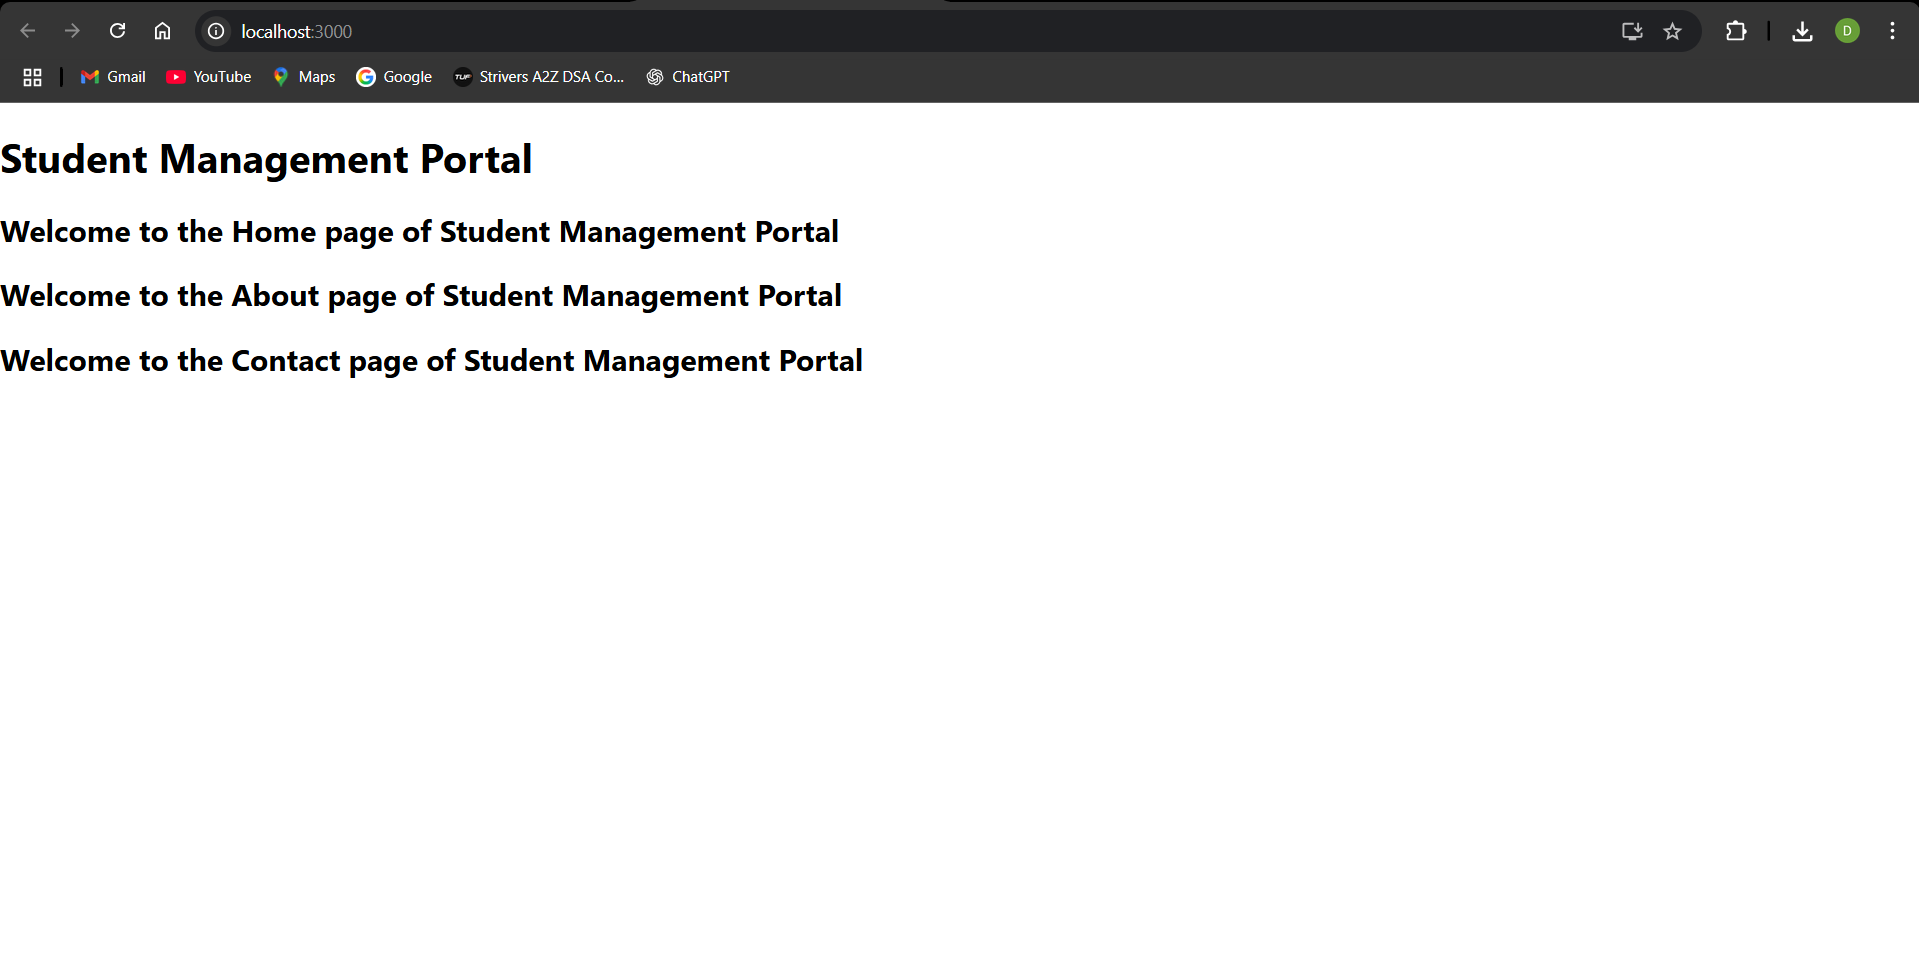
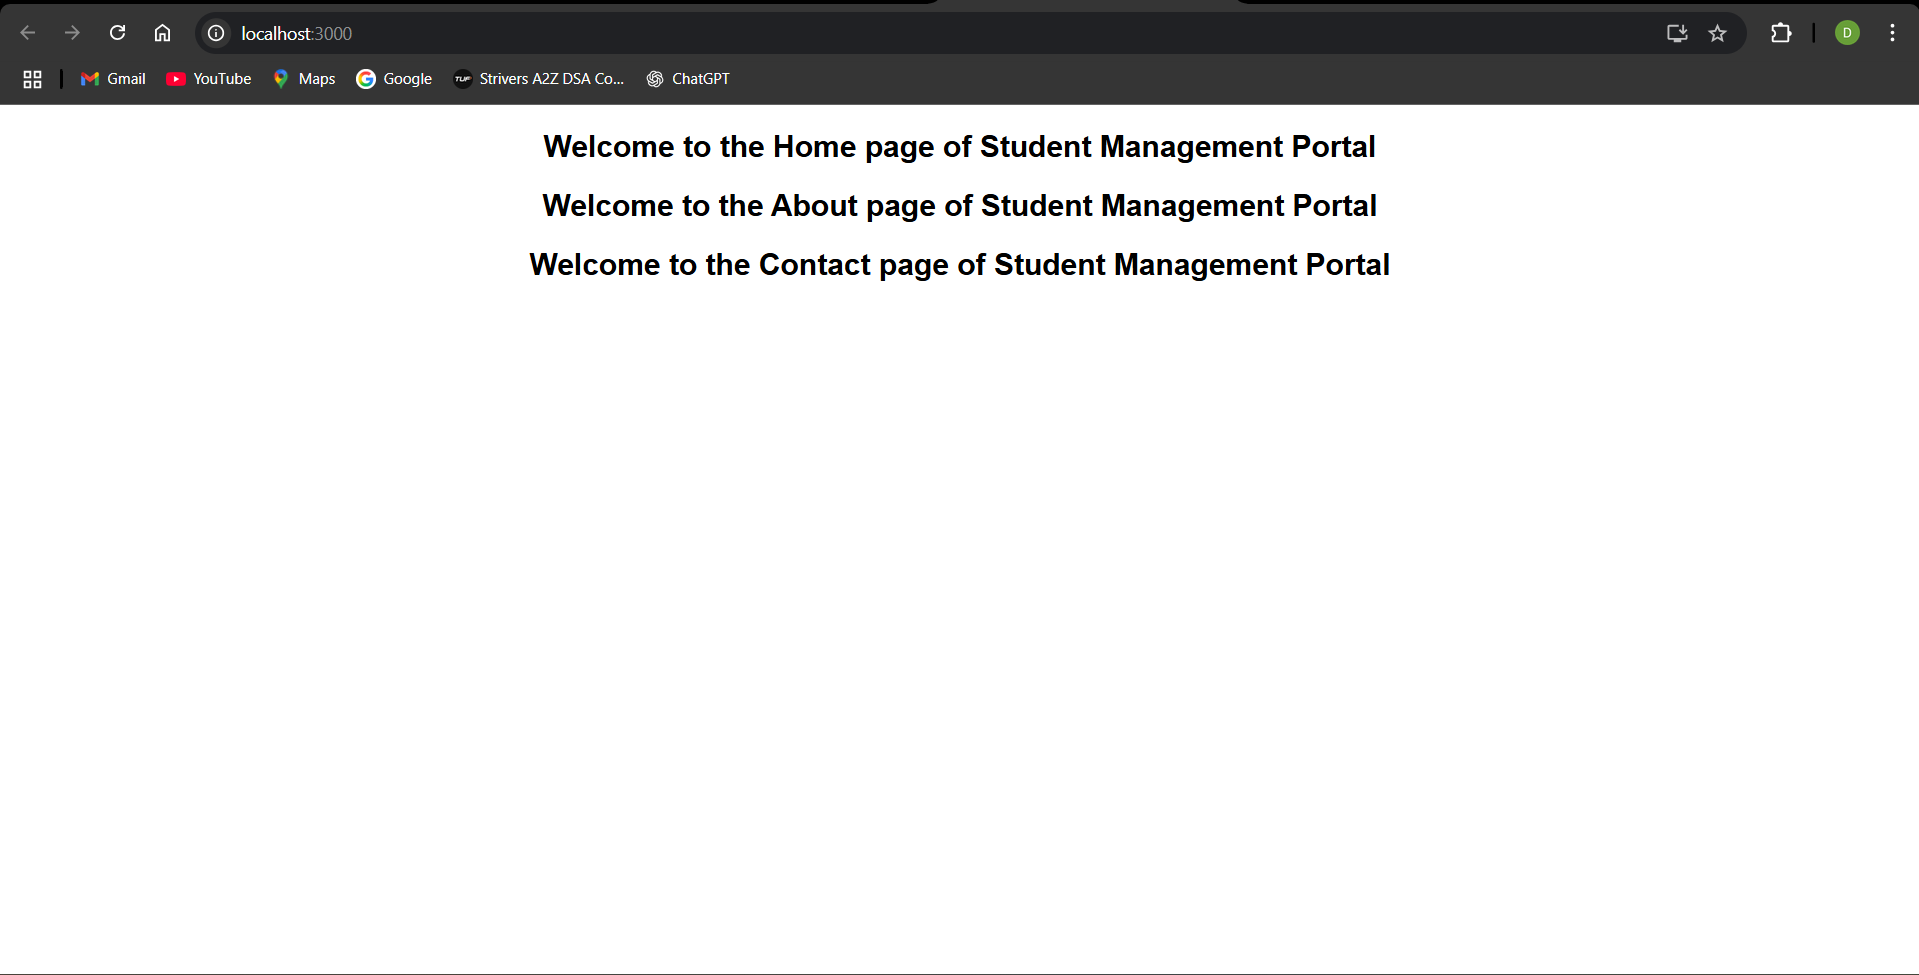
Added Week6 folder

diff --git a/Week6/2. ReactJS-HOL/Code/studentapp/src/App.js b/Week6/2. ReactJS-HOL/Code/studentapp/src/App.js
@@ -4,14 +4,13 @@ import About from './Components/About';
 import Contact from './Components/Contact';
 
 function App() {
-return (
-<div>
-<h1>Student Management Portal</h1>
-<Home />
-<About />
-<Contact />
-</div>
-);
+  return (
+    <div style={{ textAlign: "center", fontFamily: "Arial" }}>
+      <Home />
+      <About />
+      <Contact />
+    </div>
+  );
 }
 
 export default App;
